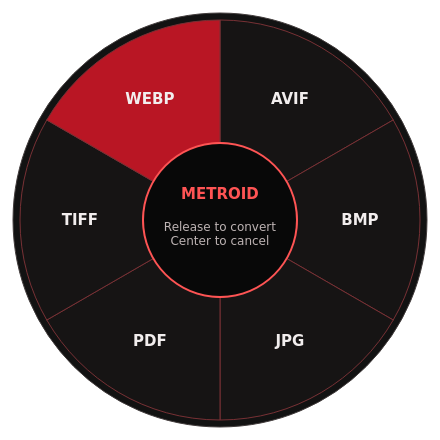
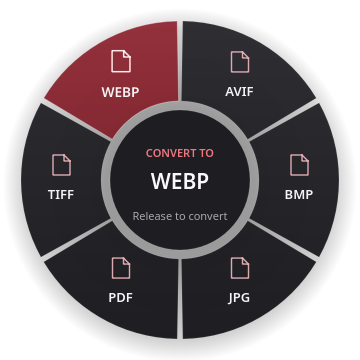
Preserve filenames and animate the compact conversion wheel

diff --git a/desktop/radialwheel.h b/desktop/radialwheel.h
@@ -4,7 +4,19 @@
 
 // Shared by the compositor integration and the context-menu fallback.
 class RadialWheel : public QWidget {
+    static constexpr double pi = 3.14159265358979323846;
+    QVariantAnimation reveal;
+    QTimer frames;
+    QVector<qreal> emphasis;
+    qreal opening = 1;
+    void hoverAt(QPointF local) {
+        hovered = hitTest(local);
+        if (!frames.isActive()) frames.start();
+        update();
+    }
 public:
+    static constexpr int extent = 360;
+    static constexpr int orbit = 119;
     QStringList formats;
     QString message = "Reading files…";
     int hovered = -1;
@@ -13,9 +25,26 @@ public:
         setAttribute(Qt::WA_TranslucentBackground);
         setAttribute(Qt::WA_ShowWithoutActivating);
         setMouseTracking(true);
-        setFixedSize(440, 440);
+        setFixedSize(extent, extent);
         setWindowTitle("Metroid format wheel");
         setObjectName("metroid-wheel");
+        reveal.setDuration(180);
+        reveal.setStartValue(0.0); reveal.setEndValue(1.0);
+        reveal.setEasingCurve(QEasingCurve::OutCubic);
+        connect(&reveal, &QVariantAnimation::valueChanged, this, [this](const QVariant &v) { opening=v.toReal(); update(); });
+        frames.setInterval(16);
+        connect(&frames, &QTimer::timeout, this, [this] {
+            emphasis.resize(formats.size());
+            bool moving=false;
+            for (int i=0; i<emphasis.size(); ++i) {
+                const qreal target=i==hovered ? 1 : 0;
+                emphasis[i]+=(target-emphasis[i])*0.28;
+                if (std::abs(target-emphasis[i])<0.005) emphasis[i]=target;
+                else moving=true;
+            }
+            update();
+            if (!moving) frames.stop();
+        });
     }
     void openAt(QPoint point) {
         QPoint topLeft = point - QPoint(width()/2,height()/2);
@@ -24,37 +53,62 @@ public:
             topLeft.setX(qBound(area.left(),topLeft.x(),qMax(area.left(),area.right()-width()+1)));
             topLeft.setY(qBound(area.top(),topLeft.y(),qMax(area.top(),area.bottom()-height()+1)));
         }
-        move(topLeft); hovered = -1; show(); raise(); update();
+        move(topLeft); hovered = -1; emphasis.fill(0,formats.size());
+        opening=0; show(); raise(); reveal.start();
     }
     int hitTest(QPointF local) const {
         if (formats.isEmpty()) return -1;
-        const QPointF d = local - QPointF(220,220);
+        const QPointF d = local - QPointF(extent/2,extent/2);
         const double r = std::hypot(d.x(),d.y());
-        if (r < 78 || r > 202) return -1;
-        double a = std::atan2(d.y(),d.x()) + 3.14159265358979323846/2;
-        if (a < 0) a += 2*3.14159265358979323846;
-        return qMin(int(a/(2*3.14159265358979323846)*formats.size()),int(formats.size())-1);
+        if (r < 77 || r > 161) return -1;
+        double a = std::atan2(d.y(),d.x()) + pi/2;
+        if (a < 0) a += 2*pi;
+        return qMin(int(a/(2*pi)*formats.size()),int(formats.size())-1);
     }
-    void trackGlobal(QPointF pos) { hovered=hitTest(pos-QPointF(x(),y())); update(); }
+    void trackGlobal(QPointF pos) { hoverAt(pos-QPointF(x(),y())); }
     QString selected() const { return hovered>=0 && hovered<formats.size() ? formats[hovered] : QString(); }
     void paintEvent(QPaintEvent *) override {
         QPainter p(this); p.setRenderHint(QPainter::Antialiasing);
-        p.setPen(QPen(QColor("#413b3b"),1)); p.setBrush(QColor(8,8,8,245)); p.drawEllipse(QPointF(220,220),207,207);
+        p.translate(extent/2,extent/2);
+        const qreal scale=0.88+0.12*opening;
+        p.scale(scale,scale); p.setOpacity(opening);
+        // Soft painted shadow keeps the overlay independent of compositor effects.
+        QRadialGradient shadow(QPointF(0,5),177);
+        shadow.setColorAt(0.42,QColor(0,0,0,100));
+        shadow.setColorAt(0.88,QColor(0,0,0,45)); shadow.setColorAt(1,Qt::transparent);
+        p.setPen(Qt::NoPen); p.setBrush(shadow); p.drawEllipse(QPointF(0,5),177,177);
         const int n=formats.size();
         for (int i=0;i<n;++i) {
-            const double sweep=360.0/n;
-            QPainterPath sector; sector.moveTo(220,220); sector.arcTo(QRectF(20,20,400,400),90-i*sweep,-sweep); sector.closeSubpath();
-            p.setBrush(QColor(i==hovered ? "#b91624" : "#161414")); p.setPen(QPen(QColor("#773034"),1)); p.drawPath(sector);
-            const double a=-3.14159265358979323846/2+(i+0.5)*2*3.14159265358979323846/n;
-            const QPointF c(220+140*std::cos(a),220+140*std::sin(a));
-            p.setPen(QColor("#f2eeee")); p.setFont(QFont("DejaVu Sans",11,QFont::Bold));
-            p.drawText(QRectF(c.x()-47,c.y()-20,94,40),Qt::AlignCenter,formats[i].toUpper());
+            const qreal t=i<emphasis.size()?emphasis[i]:0;
+            const double sweep=360.0/n, gap=2.0;
+            QPainterPath sector;
+            sector.arcMoveTo(QRectF(-159,-159,318,318),90-i*sweep-gap/2);
+            sector.arcTo(QRectF(-159,-159,318,318),90-i*sweep-gap/2,-sweep+gap);
+            sector.arcTo(QRectF(-79,-79,158,158),90-(i+1)*sweep+gap/2,sweep-gap);
+            sector.closeSubpath();
+            QLinearGradient fill(0,-159,0,159);
+            fill.setColorAt(0,QColor(40+int(105*t),39+int(3*t),43+int(10*t),245));
+            fill.setColorAt(1,QColor(23+int(80*t),23,27+int(6*t),245));
+            p.setBrush(fill); p.setPen(QPen(QColor(255,255,255,28+int(55*t)),1)); p.drawPath(sector);
+            const double a=-pi/2+(i+0.5)*2*pi/n;
+            const QPointF c(orbit*std::cos(a),orbit*std::sin(a));
+            p.save(); p.translate(c); p.scale(1+0.05*t,1+0.05*t);
+            // Small document glyph drawn as vectors, consistent across platforms.
+            p.setPen(QPen(QColor(220+int(35*t),170+int(65*t),175+int(60*t)),1.4)); p.setBrush(Qt::NoBrush);
+            QPainterPath icon; icon.moveTo(-8,-25); icon.lineTo(3,-25); icon.lineTo(9,-19); icon.lineTo(9,-5); icon.lineTo(-8,-5); icon.closeSubpath();
+            icon.moveTo(3,-25); icon.lineTo(3,-19); icon.lineTo(9,-19); p.drawPath(icon);
+            p.setPen(QColor(245,243,246)); p.setFont(QFont("Sans Serif",10,QFont::DemiBold));
+            p.drawText(QRectF(-40,2,80,24),Qt::AlignCenter,formats[i].toUpper()); p.restore();
         }
-        p.setPen(QPen(QColor("#ff5454"),2)); p.setBrush(QColor("#080808")); p.drawEllipse(QPointF(220,220),77,77);
-        p.setPen(QColor("#ff5454")); p.setFont(QFont("DejaVu Sans",11,QFont::Bold)); p.drawText(QRect(150,179,140,30),Qt::AlignCenter,"METROID");
-        p.setPen(QColor("#bdb3b3")); p.setFont(QFont("DejaVu Sans",9));
-        p.drawText(QRect(152,210,136,48),Qt::AlignCenter|Qt::TextWordWrap,formats.isEmpty()?message:"Release to convert\nCenter to cancel");
+        p.setBrush(QColor(25,24,28,245)); p.setPen(QPen(QColor(255,255,255,32),1)); p.drawEllipse(QPointF(0,0),70,70);
+        p.setPen(QColor("#ef777e")); p.setFont(QFont("Sans Serif",8,QFont::DemiBold));
+        p.drawText(QRectF(-65,-37,130,20),Qt::AlignCenter,hovered<0?"METROID":"CONVERT TO");
+        p.setPen(QColor("#faf8fa")); p.setFont(QFont("Sans Serif",hovered<0?11:16,QFont::DemiBold));
+        p.drawText(QRectF(-68,-13,136,28),Qt::AlignCenter,formats.isEmpty()?"Please wait":hovered<0?"Choose format":selected().toUpper());
+        p.setPen(QColor("#aaa5ae")); p.setFont(QFont("Sans Serif",8));
+        p.drawText(QRectF(-61,20,122,32),Qt::AlignCenter|Qt::TextWordWrap,formats.isEmpty()?message:hovered<0?"Center to cancel":"Release to convert");
     }
-    void mouseMoveEvent(QMouseEvent *event) override { hovered=hitTest(event->position()); update(); }
-    void mouseReleaseEvent(QMouseEvent *event) override { hovered=hitTest(event->position()); if (chosen) chosen(selected()); hide(); }
+    void hideEvent(QHideEvent *event) override { reveal.stop(); frames.stop(); QWidget::hideEvent(event); }
+    void mouseMoveEvent(QMouseEvent *event) override { hoverAt(event->position()); }
+    void mouseReleaseEvent(QMouseEvent *event) override { hoverAt(event->position()); if (chosen) chosen(selected()); hide(); }
 };

diff --git a/tests/radialwheel.cpp b/tests/radialwheel.cpp
@@ -3,15 +3,28 @@
 int main(int argc,char **argv) {
     QApplication app(argc,argv); RadialWheel wheel;
     auto check=[](bool condition,const char *message){ if (!condition) { std::cerr<<message<<'\n'; std::exit(1); } };
-    check(wheel.hitTest({220,80})==-1,"An empty wheel must not select a format");
+    check(wheel.hitTest({180,80})==-1,"An empty wheel must not select a format");
     wheel.formats={"avif","bmp","jpg","pdf","tiff","webp"};
-    check(wheel.hitTest({220,220})==-1,"The center must cancel");
+    check(wheel.hitTest({180,180})==-1,"The center must cancel");
     check(wheel.hitTest({0,0})==-1,"Outside the wheel must cancel");
     for(int i=0;i<wheel.formats.size();++i) {
         const double a=-3.14159265358979323846/2+(i+0.5)*2*3.14159265358979323846/wheel.formats.size();
-        check(wheel.hitTest({220+140*std::cos(a),220+140*std::sin(a)})==i,"Painted segment and hit test disagree");
+        check(wheel.hitTest({180+119*std::cos(a),180+119*std::sin(a)})==i,"Painted segment and hit test disagree");
     }
     wheel.openAt({10,10}); check(wheel.x()>=0 && wheel.y()>=0,"Wheel must stay on screen");
-    wheel.trackGlobal(QPointF(wheel.x()+150,wheel.y()+99)); check(wheel.selected()=="webp","WebP selection must match the hovered sector");
-    wheel.hide(); std::cout<<"Radial wheel hit testing and edge placement passed\n";
+    wheel.trackGlobal(QPointF(wheel.x()+120,wheel.y()+77)); check(wheel.selected()=="webp","WebP selection must match the hovered sector");
+    wheel.hide();
+    if (const auto directory=qEnvironmentVariable("METROID_WHEEL_FRAMES"); !directory.isEmpty()) {
+        QDir().mkpath(directory);
+        wheel.openAt({400,400});
+        QTimer capture;
+        int frame=0;
+        QObject::connect(&capture,&QTimer::timeout,&app,[&] {
+            if (frame==20) wheel.trackGlobal(QPointF(wheel.x()+120,wheel.y()+77));
+            wheel.grab().save(directory+QString("/frame-%1.png").arg(frame++,3,10,QChar('0')));
+            if (frame==55) app.quit();
+        });
+        capture.start(20); app.exec(); wheel.hide();
+    }
+    std::cout<<"Radial wheel hit testing and edge placement passed\n";
 }

diff --git a/src/lib.rs b/src/lib.rs
@@ -128,17 +128,16 @@ pub fn doctor() -> Doctor {
 // Publishing uses a hard link on the same filesystem: atomic, and refuses any
 // existing destination (including dangling symlinks). Sources are never opened writable.
 pub fn publish(source: &Path, input: &Path, directory: &Path, target: &str) -> Result<PathBuf> {
-    let stem = input
-        .file_stem()
-        .context("Missing file name")?
-        .to_string_lossy();
+    let stem = input.file_stem().context("Missing file name")?;
     for index in 1..10000 {
         let suffix = if index == 1 {
             String::new()
         } else {
             format!("-{index}")
         };
-        let output = directory.join(format!("{stem}-metroid{suffix}.{target}"));
+        let mut name = stem.to_os_string();
+        name.push(format!("{suffix}.{target}"));
+        let output = directory.join(name);
         match fs::hard_link(source, &output) {
             Ok(()) => return Ok(output),
             Err(e) if e.kind() == std::io::ErrorKind::AlreadyExists => continue,
@@ -311,15 +310,23 @@ mod tests {
         );
     }
     #[test]
+    fn preserves_filename() {
+        let d = tempfile::tempdir().unwrap();
+        let source = d.path().join("staged");
+        fs::write(&source, b"new").unwrap();
+        let output = publish(&source, Path::new("été.final 01.jpg"), d.path(), "webp").unwrap();
+        assert_eq!(output.file_name().unwrap(), "été.final 01.webp");
+    }
+    #[test]
     fn never_overwrites() {
         let d = tempfile::tempdir().unwrap();
         let source = d.path().join("staged");
         fs::write(&source, b"new").unwrap();
-        let old = d.path().join("photo-metroid.png");
+        let old = d.path().join("photo.png");
         fs::write(&old, b"old").unwrap();
         let output = publish(&source, Path::new("photo.jpg"), d.path(), "png").unwrap();
         assert_eq!(fs::read(old).unwrap(), b"old");
-        assert_eq!(output.file_name().unwrap(), "photo-metroid-2.png");
+        assert_eq!(output.file_name().unwrap(), "photo-2.png");
     }
     #[test]
     fn concurrent_publication_is_safe() {

diff --git a/desktop/main.cpp b/desktop/main.cpp
@@ -89,7 +89,7 @@ public:
         formatBox->addLayout(formatRow); settings->addLayout(formatBox,1);
         auto *destBox = new QVBoxLayout; destBox->addWidget(label("SAVE TO", "eyebrow"));
         choose = new QPushButton("Next to the originals  ▾"); destBox->addWidget(choose); settings->addLayout(destBox,2); main->addLayout(settings);
-        destination = label("Originals are preserved. Converted files use the -metroid suffix.", "muted"); main->addWidget(destination);
+        destination = label("Originals are preserved. Only the extension changes; existing files are never replaced.", "muted"); main->addWidget(destination);
         progress = new QProgressBar; progress->setRange(0,1); progress->setValue(0); progress->setTextVisible(false); progress->setFixedHeight(4); main->addWidget(progress);
         auto *bottom = new QHBoxLayout; status = label("Ready to convert", "muted"); bottom->addWidget(status,1);
         stop = new QPushButton("Cancel"); stop->setEnabled(false); bottom->addWidget(stop);

diff --git a/docs/media/README.md b/docs/media/README.md
@@ -5,7 +5,7 @@
 | Asset | Purpose |
 | --- | --- |
 | `shift-drag-wheel.png` | Actual KWin wheel while hovering WebP during a file drag |
-| `shift-drag.gif` | Two wheel states, each held for two seconds; not a real-time recording |
+| `shift-drag.gif` | Native wheel frames captured every 20 ms, showing opening and hover |
 | `banner.svg` | Vector header using the desktop's charcoal, red, and muted-gray palette |
 | `desktop-ready.png` | Actual native Qt window before adding files |
 | `desktop-converted.png` | Actual successful PNG-to-WebP conversion using generated sample data |
@@ -13,8 +13,7 @@
 
 Screenshots contain generated demonstration data, no private documents or personal
 paths. The batch screenshots are 1060 × 820 and their slideshow holds each state for
-three seconds. The primary wheel captures are 440 × 440 and their slideshow holds
-each state for two seconds. A still image is available beside the optional animation in the main
+three seconds. The primary wheel captures are 360 × 360; the animation uses native widget frames at 20 ms intervals. A still image is available beside the optional animation in the main
 README. Keep future captures in English and avoid decorative motion outside the demo.
 
 To refresh the visuals on Linux, build and install the current app, generate a PNG
@@ -33,3 +32,6 @@ before publishing. The SVG is editable source; no external font or image fetch i
 
 Wheel captures come from the isolated KWin interaction test. The input driver can
 capture only the wheel widget, avoiding unrelated desktop content.
+
+To capture the wheel animation frames: `QT_QPA_PLATFORM=offscreen
+METROID_WHEEL_FRAMES=/absolute/path/frames build/metroid-wheel-test`.

diff --git a/README.md b/README.md
@@ -13,7 +13,8 @@
 Metroid brings a conversion wheel to your cursor without opening a batch window.
 The global gesture is implemented for **KDE Plasma / KWin 6.8 on Wayland**. The
 Rust conversion core and secondary Qt batch manager also build on Linux and Windows.
-Originals are preserved. No account, application server, or cloud service is required.
+The filename stays the same: `photo.png` becomes `photo.webp`. A number is added
+only when the destination already exists (`photo-2.webp`). Originals are preserved. No account, application server, or cloud service is required.
 
 **Status: under development. The Shift-drag integration is KWin-specific.** This is an independent implementation;
 it contains no Tangerine source code and is not affiliated with any namesake franchise.
@@ -37,8 +38,8 @@ All repository documentation, commit messages, comments, and application text ar
 
 ![The Shift-drag wheel before and after hovering WebP](docs/media/shift-drag.gif)
 
-Two real wheel captures, not a real-time recording. The still image above shows
-the highlighted sector without motion.
+Native widget frames show the opening and hover transitions. The still image above
+shows the highlighted sector without motion.
 
 </details>
 

diff --git a/docs/USER_GUIDE.md b/docs/USER_GUIDE.md
@@ -16,7 +16,7 @@ On KDE Wayland with the [KWin integration](../integrations/kwin/README.md) enabl
 
 You do not need to open a window, add a file to a list, or press a Convert button.
 Multiple selected files use their common available formats. The source files remain
-unchanged; outputs use `name-metroid.ext` and numbered names on later runs.
+unchanged; outputs use `name.ext` and numbered names on later runs.
 
 ## Cancel safely
 
